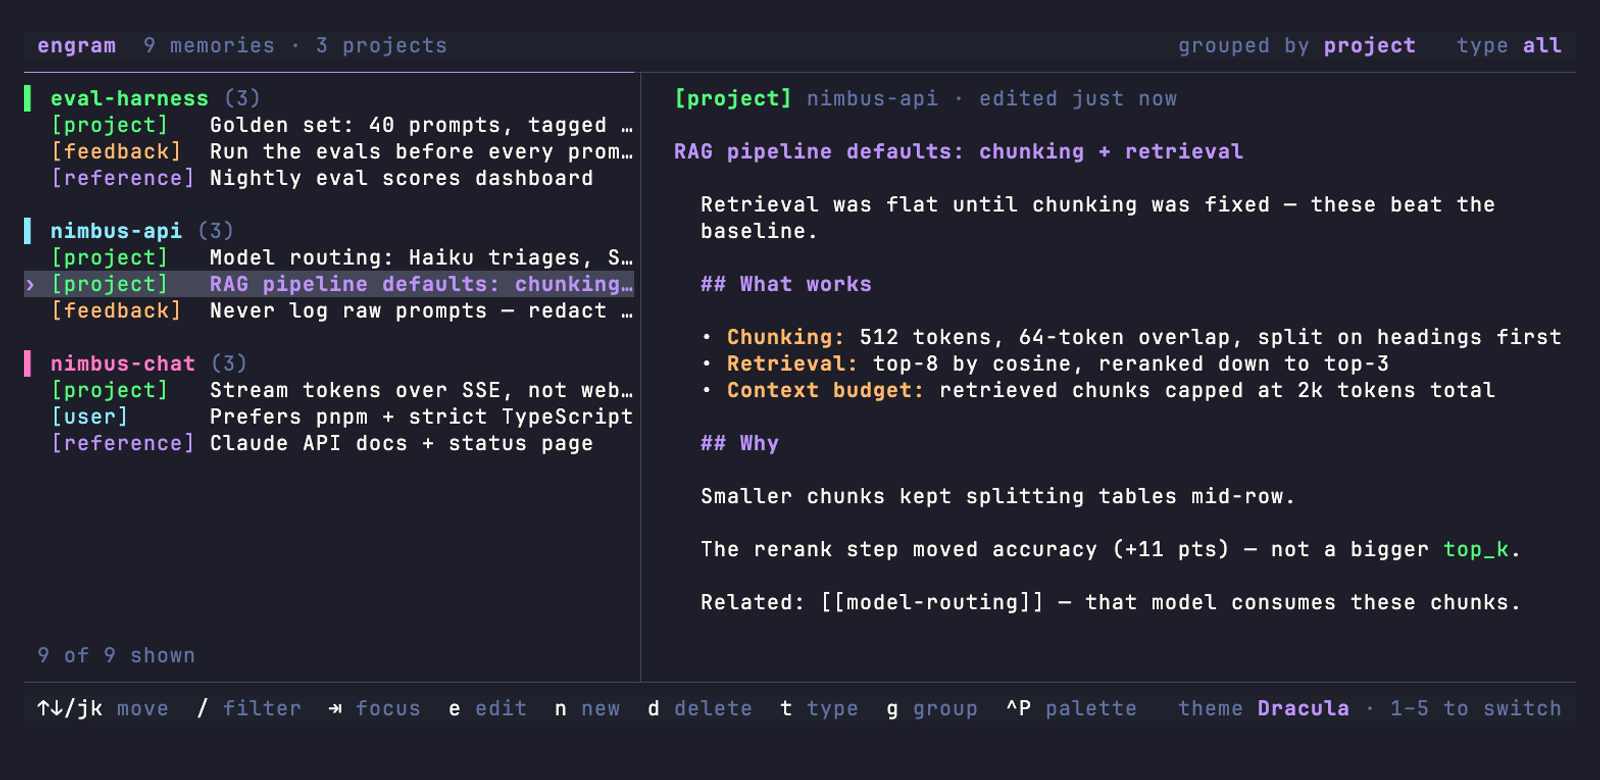
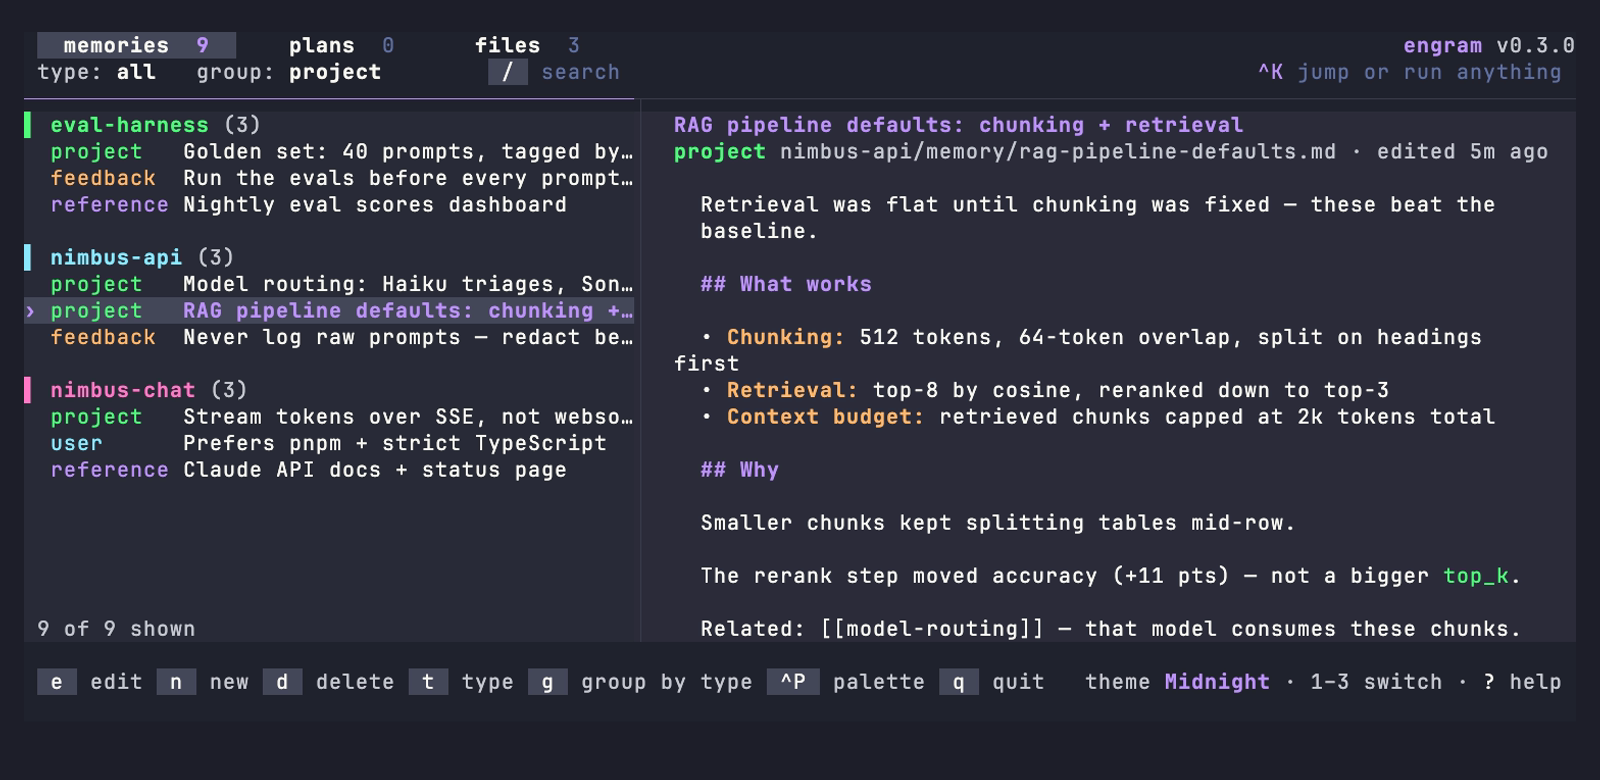
docs: recapture the README screenshot, fix the supported-version table
The screenshot predated the whole redesign - it still showed the old chrome,
bracketed badges and five-theme switcher, so the README misrepresented the
app. Recaptured over the same fictional demo data against the current UI.

The build now stamps a version: a plain `go build` leaves main.version empty
and the header falls back to a VCS pseudo-version long enough to be clipped
mid-string in the capture. Noted in the demo README so the next regeneration
does not reintroduce it.

SECURITY.md still advertised 0.1.x as the supported line while the project
ships 0.2.x, which would misdirect anyone reporting against a current build.

diff --git a/docs/demo/README.md b/docs/demo/README.md
@@ -8,7 +8,10 @@ Requires [vhs](https://github.com/charmbracelet/vhs) (`brew install vhs`).
 
 ```sh
 cd docs/demo
-go build -o engram ../..   # build the current TUI
+# Stamp the version you are shipping. A plain `go build` leaves it empty, and
+# the header then shows a long VCS pseudo-version (v0.2.2-0.2026…) that gets
+# clipped mid-string in the capture.
+go build -ldflags "-s -w -X main.version=v0.3.0" -o engram ../..
 bash setup.sh              # stage the fictional demo home
 vhs tui.tape               # drive the TUI, write tui.png
 cp tui.png ../tui.png      # promote the new capture

diff --git a/CHANGELOG.md b/CHANGELOG.md
@@ -57,7 +57,8 @@ and this project adheres to [Semantic Versioning](https://semver.org/spec/v2.0.0
   or by `main.js` changed.
 - **README screenshot** (`docs/tui.png`) — a real capture of the TUI over staged,
   fictional demo data (an imaginary AI app). Regenerable after UI changes via the
-  vhs tape and fixtures in `docs/demo/`.
+  vhs tape and fixtures in `docs/demo/`; recaptured against the redesign, so the
+  README shows the two-row header, the bare badges, and the padded status bar.
 
 ### Changed
 - **Every dialog shares one anatomy with semantic colors** — an opaque panel

diff --git a/SECURITY.md b/SECURITY.md
@@ -7,8 +7,8 @@ release line only.
 
 | Version | Supported |
 |---------|-----------|
-| 0.1.x   | ✅         |
-| < 0.1   | ❌         |
+| 0.2.x   | ✅         |
+| < 0.2   | ❌         |
 
 ## Reporting a vulnerability
 
